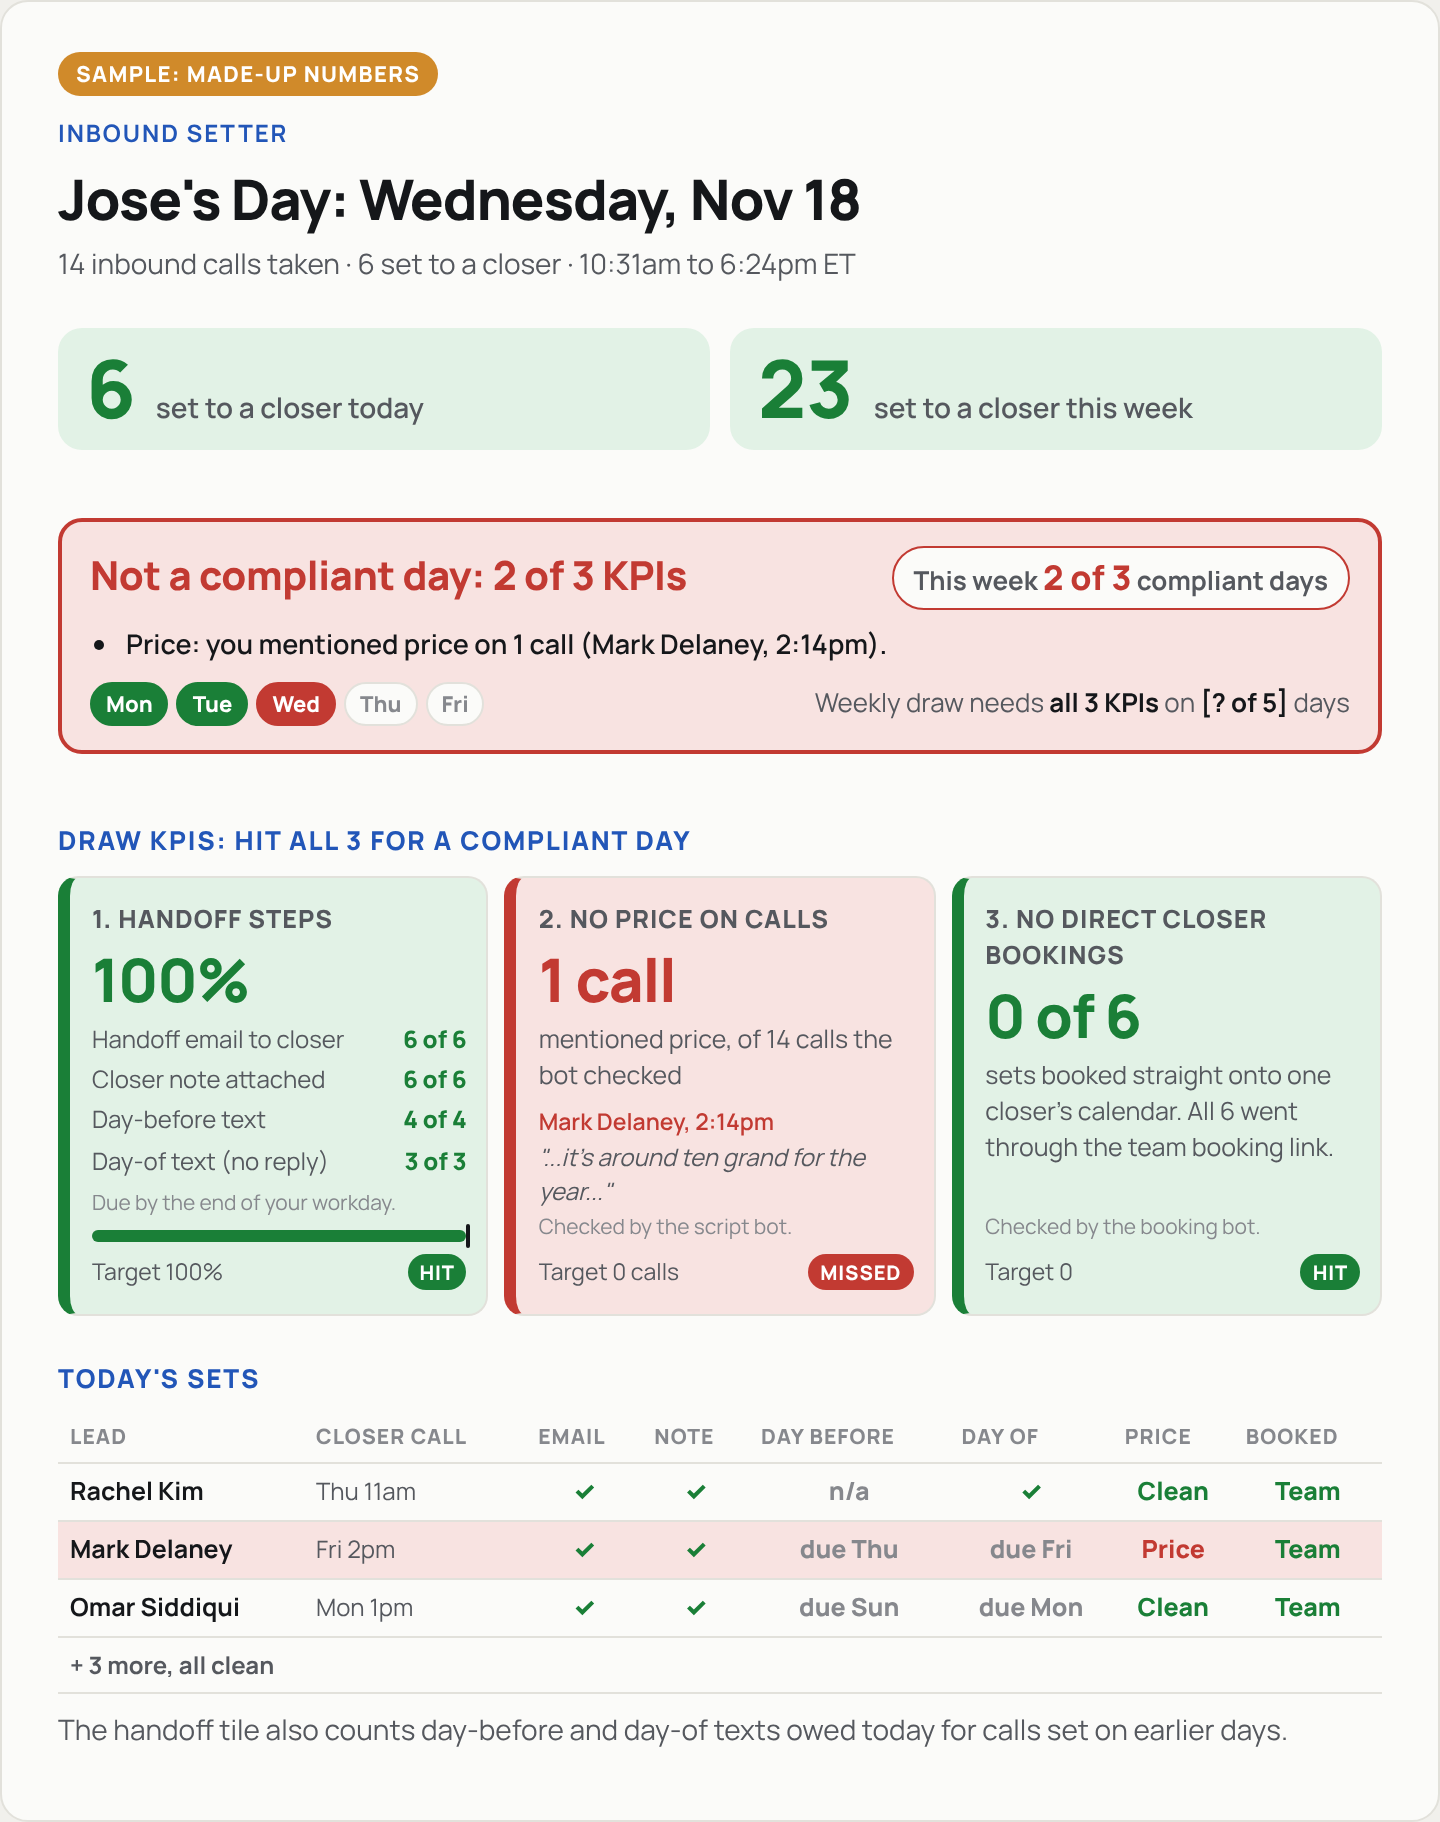
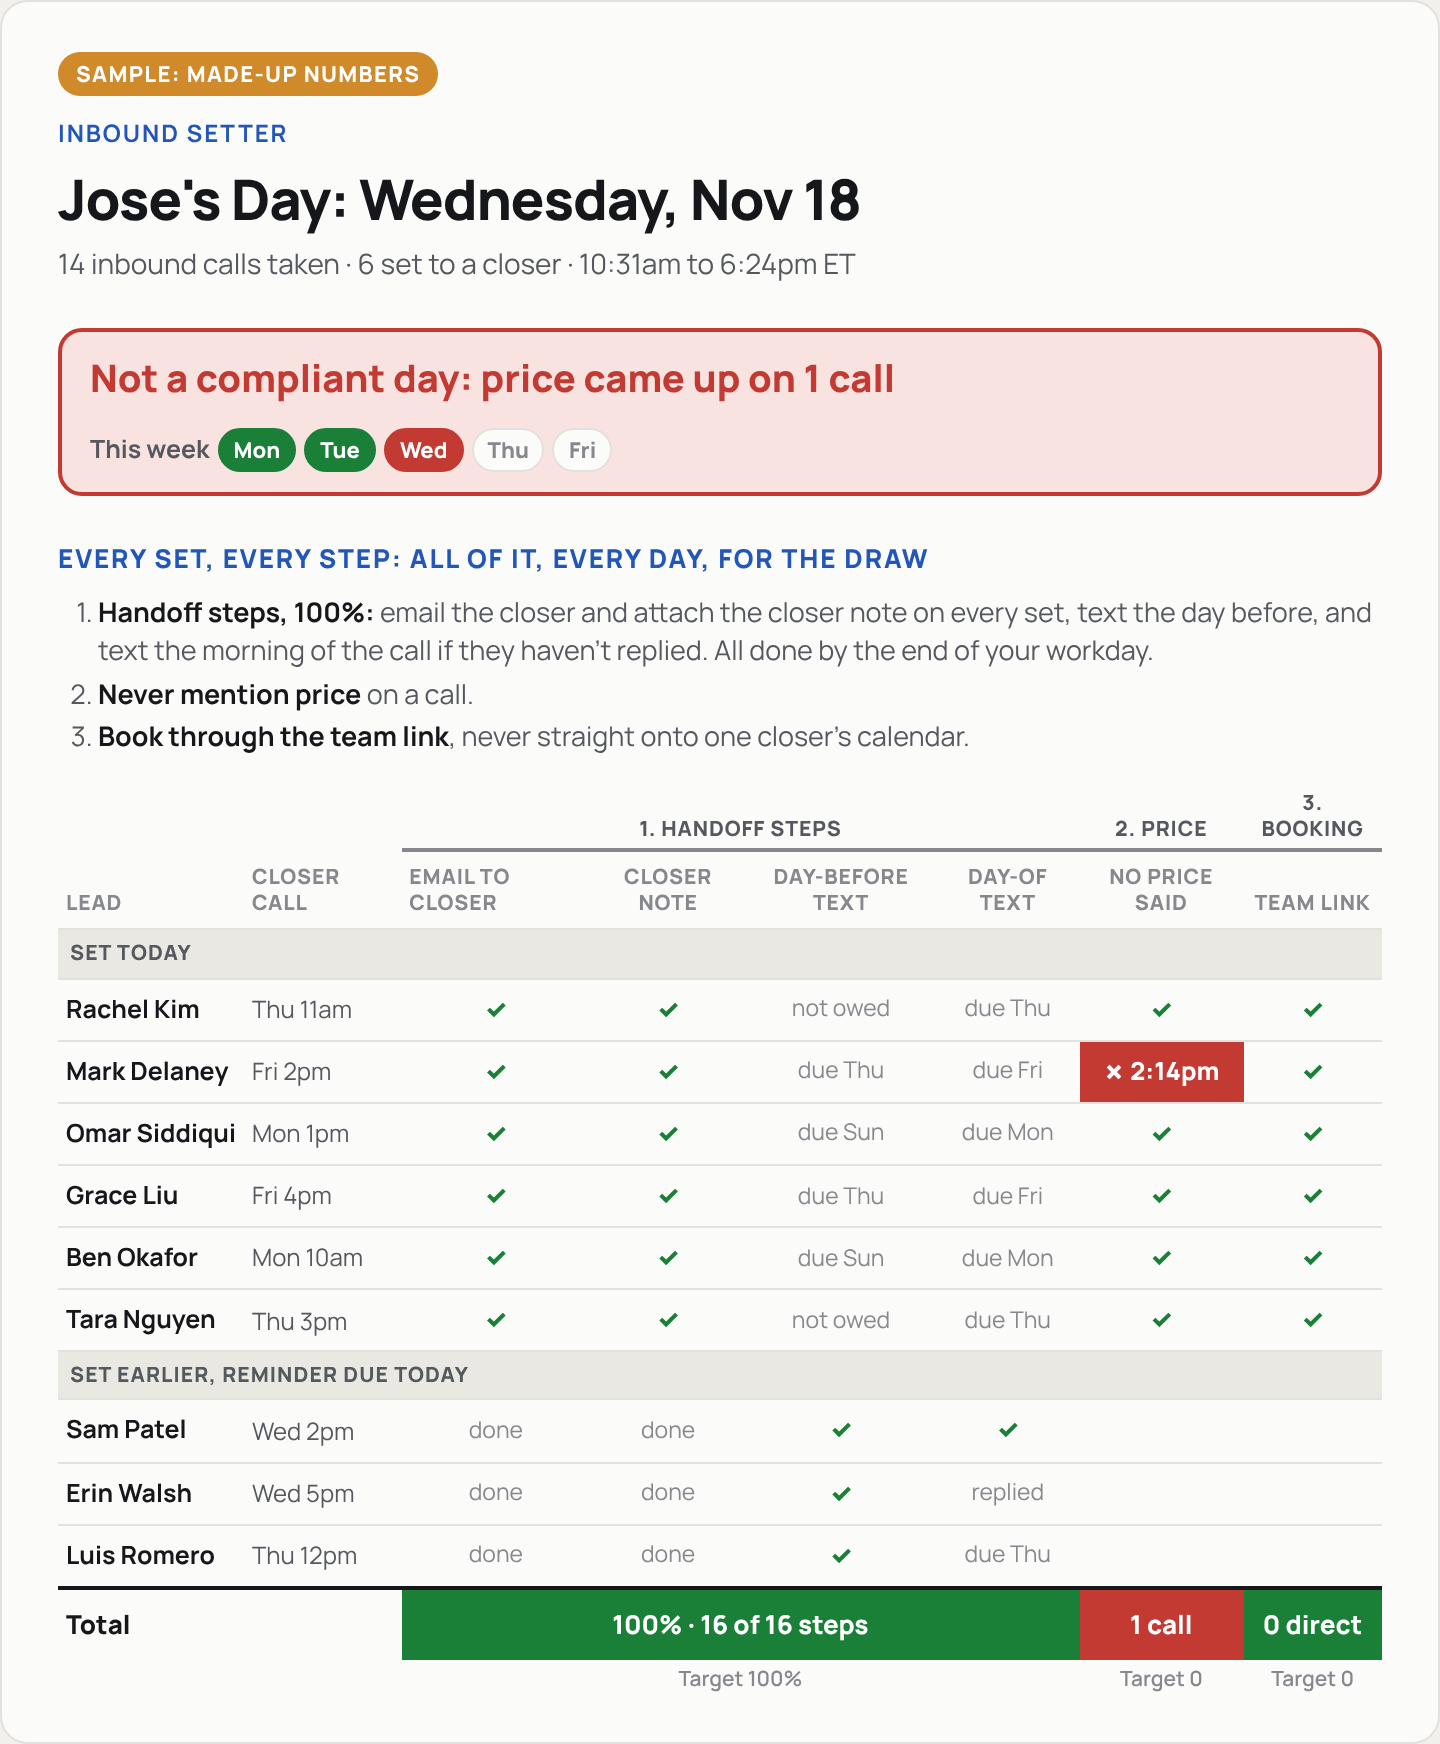
Inbound mockups v2: one table per card with a totals row, no KPI tiles
Claude-Session: https://claude.ai/code/session_01D9LMPTL1NiKJvZGnvcS1D1

Changed region(s): [[0.0312, 0.031, 0.9688, 0.9908]]

diff --git a/mockups/inbound-scorecards/cards.html b/mockups/inbound-scorecards/cards.html
@@ -1,23 +1,35 @@
-<!-- MOCKUP v1 (Nov 19, 2026): inbound setter cards (Jose and Jordan; Dave) and Jose's Incomplete Typeform outbound card.
-     Static made-up numbers, not from Close or the bots. Styles come from kit/template.html and kit/cover.html (see render.py). -->
+<!-- MOCKUP v2 (Nov 20, 2026): inbound setter cards (Jose and Jordan; Dave) and Jose's Incomplete Typeform outbound card.
+     Static made-up numbers, not from Close or the bots. Styles come from kit/template.html and kit/cover.html (see render.py).
+     v2 (Sheila, Nov 20): inbound cards drop the KPI tiles; one table of every lead with a step owed that day,
+     and a totals row at the bottom that carries each KPI's result. -->
 <style>
 .sample{display:inline-block;font-size:11px;font-weight:800;letter-spacing:.06em;text-transform:uppercase;color:#fff;background:var(--older);border-radius:999px;padding:3px 9px}
 .inb .eyebrow{color:var(--accent)} .ob .eyebrow{color:var(--older)}
-.kpis.k3{grid-template-columns:repeat(3,minmax(0,1fr))}
-.kpis.k1{grid-template-columns:1fr}
-.kpi .who{font-size:11.5px;color:var(--bad);font-weight:600}
+.todo{margin:0 0 10px;padding-left:20px;font-size:13.5px;color:var(--ink2);display:flex;flex-direction:column;gap:2px}
+.todo b{color:var(--ink)}
 .tbl{width:100%;border-collapse:collapse;font-size:12.5px}
-.tbl th{font-size:10.5px;font-weight:800;letter-spacing:.05em;text-transform:uppercase;color:var(--ink3);text-align:left;padding:4px 6px;border-bottom:1px solid var(--line)}
-.tbl td{padding:5px 6px;border-bottom:1px solid var(--line);vertical-align:top}
-.tbl td:first-child{font-weight:700;white-space:nowrap}
-.tbl td.c{text-align:center;font-weight:800}
-.tbl .ok{color:var(--good)} .tbl .no{color:var(--bad)} .tbl .na{color:var(--ink3);font-weight:600}
-.tbl tr.miss td{background:var(--bad-soft)}
-.tbl td.r{color:var(--ink2);font-size:12px}
+.tbl th{font-size:10.5px;font-weight:800;letter-spacing:.04em;text-transform:uppercase;color:var(--ink3);text-align:center;padding:6px 4px;border-bottom:1px solid var(--line);vertical-align:bottom;line-height:1.25}
+.tbl th:first-child,.tbl th.l{text-align:left}
+.tbl th.kg{color:var(--ink2);border-bottom:2px solid var(--ink3);padding-bottom:3px}
+.tbl td{padding:6px 4px;border-bottom:1px solid var(--line);vertical-align:middle;text-align:center}
+.tbl td:first-child{font-weight:700;white-space:nowrap;text-align:left}
+.tbl td.r{color:var(--ink2);font-size:12px;text-align:left;white-space:nowrap}
+.tbl td.ok{color:var(--good);font-weight:800} .tbl td.no{color:#fff;background:var(--bad);font-weight:800}
+.tbl td.na{color:var(--ink3);font-size:11.5px}
+.tbl tr.grp td{background:var(--track);font-size:10.5px;font-weight:800;letter-spacing:.05em;text-transform:uppercase;color:var(--ink2);text-align:left;padding:4px 6px}
+.tbl tr.tot td{border-bottom:0;border-top:2px solid var(--ink);padding:8px 4px;font-size:13px;font-weight:800}
+.tbl tr.tot td.ok{background:var(--good);color:#fff} .tbl tr.tot td.no{background:var(--bad);color:#fff}
+.tbl tr.tot td.lab{text-align:left;color:var(--ink)}
+.tbl tr.tgt td{border-bottom:0;padding:2px 4px 0;font-size:10.5px;color:var(--ink3);font-weight:600}
+.verdict{border-radius:12px;padding:10px 14px;display:flex;justify-content:space-between;align-items:center;gap:10px;flex-wrap:wrap;border:2px solid var(--bad);background:var(--bad-soft)}
+.verdict.met{border-color:var(--good);background:var(--good-soft)}
+.verdict .dt{font-size:19px;font-weight:800;color:var(--bad)} .verdict.met .dt{color:var(--good)}
+.verdict .days{display:flex;gap:4px;align-items:center;font-size:12.5px;font-weight:700;color:var(--ink2)}
+.verdict .days span{font-size:11px;font-weight:800;padding:2px 7px;border-radius:999px;background:var(--card);color:var(--ink3);border:1px solid var(--line)}
+.verdict .days span.y{background:var(--good);color:#fff;border-color:var(--good)} .verdict .days span.n{background:var(--bad);color:#fff;border-color:var(--bad)}
 .note{font-size:12.5px;color:var(--ink2);border:1px dashed var(--ink3);border-radius:10px;padding:8px 12px}
 .note b{color:var(--ink)}
-.quote{font-size:12px;color:var(--ink2);font-style:italic}
-@media (max-width:560px){.kpis.k3{grid-template-columns:1fr}}
+@media (max-width:560px){.tbl{font-size:11px}.tbl th{font-size:9px}}
 </style>
 
 <!-- ============ 1. INBOUND: Jose (Jordan's card is the same) ============ -->
@@ -29,70 +41,35 @@
     <div class="meta">14 inbound calls taken · 6 set to a closer · 10:31am to 6:24pm ET</div>
   </header>
 
-  <div class="big2">
-    <div class="b2"><div class="n">6</div><div class="t">set to a closer today</div></div>
-    <div class="b2"><div class="n">23</div><div class="t">set to a closer this week</div></div>
-  </div>
-
-  <div class="draw">
-    <div class="dh"><div class="dt">Not a compliant day: 2 of 3 KPIs</div><div class="wc n">This week <span>2 of 3</span> compliant days</div></div>
-    <ul>
-      <li>Price: you mentioned price on 1 call (Mark Delaney, 2:14pm).</li>
-    </ul>
-    <div class="wf">
-      <div class="days"><span class="y">Mon</span><span class="y">Tue</span><span class="n">Wed</span><span>Thu</span><span>Fri</span></div>
-      <div class="ws">Weekly draw needs <b>all 3 KPIs</b> on <b>[? of 5]</b> days</div>
-    </div>
+  <div class="verdict">
+    <div class="dt">Not a compliant day: price came up on 1 call</div>
+    <div class="days">This week <span class="y">Mon</span><span class="y">Tue</span><span class="n">Wed</span><span>Thu</span><span>Fri</span></div>
   </div>
 
   <section>
-    <h2>Draw KPIs: hit all 3 for a compliant day</h2>
-    <div class="kpis k3">
-      <div class="kpi hit">
-        <div class="nm">1. Handoff steps</div>
-        <div class="v">100%</div>
-        <div class="of">
-          <div class="steps">
-            <div class="r"><span>Handoff email to closer</span><span class="ok">6 of 6</span></div>
-            <div class="r"><span>Closer note attached</span><span class="ok">6 of 6</span></div>
-            <div class="r"><span>Day-before text</span><span class="ok">4 of 4</span></div>
-            <div class="r"><span>Day-of text (no reply)</span><span class="ok">3 of 3</span></div>
-          </div>
-        </div>
-        <div class="nt">Due by the end of your workday.</div>
-        <div class="tbar"><i style="width:100%"></i><b style="left:100%"></b></div>
-        <div class="st"><span>Target 100%</span><span class="pill">Hit</span></div>
-      </div>
-      <div class="kpi miss">
-        <div class="nm">2. No price on calls</div>
-        <div class="v">1 call</div>
-        <div class="of">mentioned price, of 14 calls the bot checked
-          <div class="who" style="margin-top:6px">Mark Delaney, 2:14pm</div>
-          <div class="quote">"...it's around ten grand for the year..."</div>
-        </div>
-        <div class="nt">Checked by the script bot.</div>
-        <div class="st"><span>Target 0 calls</span><span class="pill">Missed</span></div>
-      </div>
-      <div class="kpi hit">
-        <div class="nm">3. No direct closer bookings</div>
-        <div class="v">0 of 6</div>
-        <div class="of">sets booked straight onto one closer's calendar. All 6 went through the team booking link.</div>
-        <div class="nt">Checked by the booking bot.</div>
-        <div class="st"><span>Target 0</span><span class="pill">Hit</span></div>
-      </div>
-    </div>
-  </section>
-
-  <section>
-    <h2>Today's sets</h2>
+    <h2>Every set, every step: all of it, every day, for the draw</h2>
+    <ol class="todo">
+      <li><b>Handoff steps, 100%:</b> email the closer and attach the closer note on every set, text the day before, and text the morning of the call if they haven't replied. All done by the end of your workday.</li>
+      <li><b>Never mention price</b> on a call.</li>
+      <li><b>Book through the team link</b>, never straight onto one closer's calendar.</li>
+    </ol>
     <table class="tbl">
-      <tr><th>Lead</th><th>Closer call</th><th>Email</th><th>Note</th><th>Day before</th><th>Day of</th><th>Price</th><th>Booked</th></tr>
-      <tr><td>Rachel Kim</td><td class="r">Thu 11am</td><td class="c ok">✓</td><td class="c ok">✓</td><td class="c na">n/a</td><td class="c ok">✓</td><td class="c ok">Clean</td><td class="c ok">Team</td></tr>
-      <tr class="miss"><td>Mark Delaney</td><td class="r">Fri 2pm</td><td class="c ok">✓</td><td class="c ok">✓</td><td class="c na">due Thu</td><td class="c na">due Fri</td><td class="c no">Price</td><td class="c ok">Team</td></tr>
-      <tr><td>Omar Siddiqui</td><td class="r">Mon 1pm</td><td class="c ok">✓</td><td class="c ok">✓</td><td class="c na">due Sun</td><td class="c na">due Mon</td><td class="c ok">Clean</td><td class="c ok">Team</td></tr>
-      <tr><td colspan="8" class="r">+ 3 more, all clean</td></tr>
+      <tr><th rowspan="2" class="l">Lead</th><th rowspan="2" class="l">Closer call</th><th colspan="4" class="kg">1. Handoff steps</th><th class="kg">2. Price</th><th class="kg">3. Booking</th></tr>
+      <tr><th>Email to closer</th><th>Closer note</th><th>Day-before text</th><th>Day-of text</th><th>No price said</th><th>Team link</th></tr>
+      <tr class="grp"><td colspan="8">Set today</td></tr>
+      <tr><td>Rachel Kim</td><td class="r">Thu 11am</td><td class="ok">✓</td><td class="ok">✓</td><td class="na">not owed</td><td class="na">due Thu</td><td class="ok">✓</td><td class="ok">✓</td></tr>
+      <tr><td>Mark Delaney</td><td class="r">Fri 2pm</td><td class="ok">✓</td><td class="ok">✓</td><td class="na">due Thu</td><td class="na">due Fri</td><td class="no">✗ 2:14pm</td><td class="ok">✓</td></tr>
+      <tr><td>Omar Siddiqui</td><td class="r">Mon 1pm</td><td class="ok">✓</td><td class="ok">✓</td><td class="na">due Sun</td><td class="na">due Mon</td><td class="ok">✓</td><td class="ok">✓</td></tr>
+      <tr><td>Grace Liu</td><td class="r">Fri 4pm</td><td class="ok">✓</td><td class="ok">✓</td><td class="na">due Thu</td><td class="na">due Fri</td><td class="ok">✓</td><td class="ok">✓</td></tr>
+      <tr><td>Ben Okafor</td><td class="r">Mon 10am</td><td class="ok">✓</td><td class="ok">✓</td><td class="na">due Sun</td><td class="na">due Mon</td><td class="ok">✓</td><td class="ok">✓</td></tr>
+      <tr><td>Tara Nguyen</td><td class="r">Thu 3pm</td><td class="ok">✓</td><td class="ok">✓</td><td class="na">not owed</td><td class="na">due Thu</td><td class="ok">✓</td><td class="ok">✓</td></tr>
+      <tr class="grp"><td colspan="8">Set earlier, reminder due today</td></tr>
+      <tr><td>Sam Patel</td><td class="r">Wed 2pm</td><td class="na">done</td><td class="na">done</td><td class="ok">✓</td><td class="ok">✓</td><td class="na"></td><td class="na"></td></tr>
+      <tr><td>Erin Walsh</td><td class="r">Wed 5pm</td><td class="na">done</td><td class="na">done</td><td class="ok">✓</td><td class="na">replied</td><td class="na"></td><td class="na"></td></tr>
+      <tr><td>Luis Romero</td><td class="r">Thu 12pm</td><td class="na">done</td><td class="na">done</td><td class="ok">✓</td><td class="na">due Thu</td><td class="na"></td><td class="na"></td></tr>
+      <tr class="tot"><td class="lab" colspan="2">Total</td><td colspan="4" class="ok">100% · 16 of 16 steps</td><td class="no">1 call</td><td class="ok">0 direct</td></tr>
+      <tr class="tgt"><td colspan="2"></td><td colspan="4">Target 100%</td><td>Target 0</td><td>Target 0</td></tr>
     </table>
-    <p class="lead" style="margin-top:8px">The handoff tile also counts day-before and day-of texts owed today for calls set on earlier days.</p>
   </section>
 </div>
 
@@ -105,41 +82,29 @@
     <div class="meta">11 inbound calls taken · 4 set to a closer · 9:02am to 5:11pm ET</div>
   </header>
 
-  <div class="big2">
-    <div class="b2"><div class="n">4</div><div class="t">set to a closer today</div></div>
-    <div class="b2"><div class="n">15</div><div class="t">set to a closer this week</div></div>
+  <div class="verdict">
+    <div class="dt">Handoff steps: 11 of 13 done, 2 missed</div>
   </div>
 
   <section>
-    <h2>Your KPI: handoff steps</h2>
-    <div class="kpis k1">
-      <div class="kpi miss">
-        <div class="nm">Handoff steps done</div>
-        <div class="v">87%</div>
-        <div class="of">13 of 15 steps done
-          <div class="steps" style="margin-top:6px">
-            <div class="r"><span>Handoff email to closer</span><span class="ok">4 of 4</span></div>
-            <div class="r"><span>Closer note attached</span><span class="no">3 of 4</span></div>
-            <div class="r"><span>Day-before text</span><span class="ok">3 of 3</span></div>
-            <div class="r"><span>Day-of text (no reply)</span><span class="no">3 of 4</span></div>
-          </div>
-          <div class="who" style="margin-top:6px">Missed: closer note for Lena Ortiz · day-of text for Paul Greer</div>
-        </div>
-        <div class="nt">Due by the end of your workday.</div>
-        <div class="tbar"><i style="width:87%"></i><b style="left:100%"></b></div>
-        <div class="st"><span>Target 100%</span><span class="pill">Missed</span></div>
-      </div>
-    </div>
-  </section>
-
-  <section>
-    <h2>Steps owed today</h2>
+    <h2>Every set, every step: 100% done by the end of your workday</h2>
+    <ol class="todo">
+      <li>Email the closer and attach the closer note on every set.</li>
+      <li>Text the day before the call, and the morning of the call if they haven't replied.</li>
+    </ol>
     <table class="tbl">
-      <tr><th>Lead</th><th>Closer call</th><th>Email</th><th>Note</th><th>Day before</th><th>Day of</th></tr>
-      <tr class="miss"><td>Lena Ortiz</td><td class="r">Fri 10am (set today)</td><td class="c ok">✓</td><td class="c no">✗</td><td class="c na">due Thu</td><td class="c na">due Fri</td></tr>
-      <tr class="miss"><td>Paul Greer</td><td class="r">Wed 3pm (set Mon)</td><td class="c na">done</td><td class="c na">done</td><td class="c ok">✓</td><td class="c no">✗</td></tr>
-      <tr><td>Nina Shah</td><td class="r">Thu 4pm (set today)</td><td class="c ok">✓</td><td class="c ok">✓</td><td class="c na">n/a</td><td class="c na">due Thu</td></tr>
-      <tr><td colspan="6" class="r">+ 5 more, all done</td></tr>
+      <tr><th class="l">Lead</th><th class="l">Closer call</th><th>Email to closer</th><th>Closer note</th><th>Day-before text</th><th>Day-of text</th></tr>
+      <tr class="grp"><td colspan="6">Set today</td></tr>
+      <tr><td>Lena Ortiz</td><td class="r">Fri 10am</td><td class="ok">✓</td><td class="no">✗</td><td class="na">due Thu</td><td class="na">due Fri</td></tr>
+      <tr><td>Nina Shah</td><td class="r">Thu 4pm</td><td class="ok">✓</td><td class="ok">✓</td><td class="na">not owed</td><td class="na">due Thu</td></tr>
+      <tr><td>Chris Moore</td><td class="r">Mon 11am</td><td class="ok">✓</td><td class="ok">✓</td><td class="na">due Sun</td><td class="na">due Mon</td></tr>
+      <tr><td>Ava Brooks</td><td class="r">Fri 1pm</td><td class="ok">✓</td><td class="ok">✓</td><td class="na">due Thu</td><td class="na">due Fri</td></tr>
+      <tr class="grp"><td colspan="6">Set earlier, reminder due today</td></tr>
+      <tr><td>Paul Greer</td><td class="r">Wed 3pm</td><td class="na">done</td><td class="na">done</td><td class="ok">✓</td><td class="no">✗</td></tr>
+      <tr><td>Jake Rivera</td><td class="r">Wed 11am</td><td class="na">done</td><td class="na">done</td><td class="ok">✓</td><td class="ok">✓</td></tr>
+      <tr><td>Mia Chen</td><td class="r">Thu 2pm</td><td class="na">done</td><td class="na">done</td><td class="ok">✓</td><td class="na">due Thu</td></tr>
+      <tr class="tot"><td class="lab" colspan="2">Total</td><td colspan="4" class="no">85% · 11 of 13 steps</td></tr>
+      <tr class="tgt"><td colspan="2"></td><td colspan="4">Target 100%</td></tr>
     </table>
   </section>
 </div>
